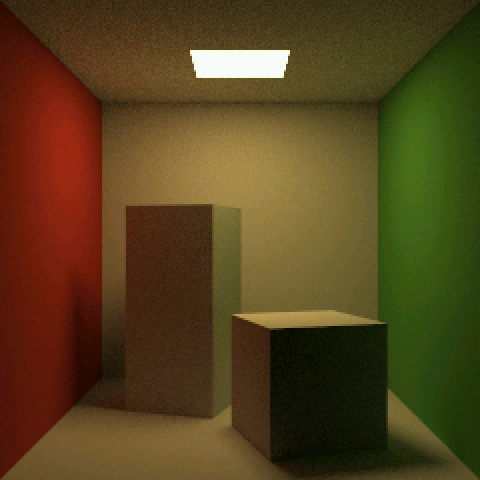
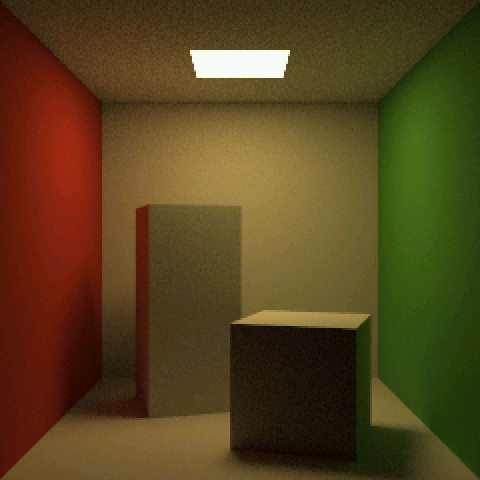
Cornell box: turn the boxes the way the original has them
The tall box shows its left face toward the red wall, and the short cube
its front and top, as in the reference rendering; the rotation signs were
flipped the wrong way before. All modes still bit-identical on the board.

diff --git a/app/cornell_scene.py b/app/cornell_scene.py
@@ -41,9 +41,9 @@ BLOCK = (
     0x3D23D70A, 0x40A00000, 0x3F400000, 0x3F400000, 0x3F400000, 0x3E99999A,
     0x3E800000, 0x3F266666, 0x3D800000, 0x40800000, 0x3F733333, 0x3F800000,
     0x41FFFDF4, 0x427FFEFA, 0x00000000, 0x3F2A3D71, 0x3E19999A, 0x3E99999A,
-    0x3F73CC22, 0x3E9C30A5, 0x3E19999A, 0x3E19999A, 0x3E19999A, 0xBE19999A,
+    0x3F73CC22, 0xBE9C30A5, 0x3E19999A, 0x3E19999A, 0x3E19999A, 0xBE19999A,
     0xBE19999A, 0xBE19999A, 0x3EAB851F, 0x3E99999A, 0x3F2147AE, 0x3F7490EF,
-    0xBE974E6D, 0x3E0A3D71, 0x3E99999A, 0x3E0A3D71, 0xBE0A3D71, 0xBE99999A,
+    0x3E974E6D, 0x3E0A3D71, 0x3E99999A, 0x3E0A3D71, 0xBE0A3D71, 0xBE99999A,
     0xBE0A3D71, 0x00000000, 0x00000000, 0x00000000, 0x00000000, 0x00000000,
     0x00000000, 0x00000000, 0x00000000, 0x00000000, 0x00000000, 0x00000000,
     0x00000000, 0x00000000, 0x00000000, 0x00000000, 0x00000000,

diff --git a/tools/cornell_scene.py b/tools/cornell_scene.py
@@ -35,8 +35,8 @@ MIRROR_SPHERE = ((0.30, 0.25, 0.65), 0.25, 0.95)  # center, radius, reflectance
 # original's measurements in a 555-unit box, mirrored so red stays on the
 # left: (center x, z on the floor), (width, height, depth), rotation about y.
 BOXES = (
-    ((0.665, 0.300), (0.300, 0.300, 0.300), 0.31),  # the short cube, front right
-    ((0.335, 0.630), (0.270, 0.600, 0.270), -0.30),  # the tall box, rear left
+    ((0.665, 0.300), (0.300, 0.300, 0.300), -0.31),  # the short cube, front right
+    ((0.335, 0.630), (0.270, 0.600, 0.270), 0.30),  # the tall box, rear left
 )
 BOX_FIELDS = ("CX", "CY", "CZ", "C", "S", "HX", "HY", "HZ", "NHX", "NHY", "NHZ")
 EPSILON = 1e-4
